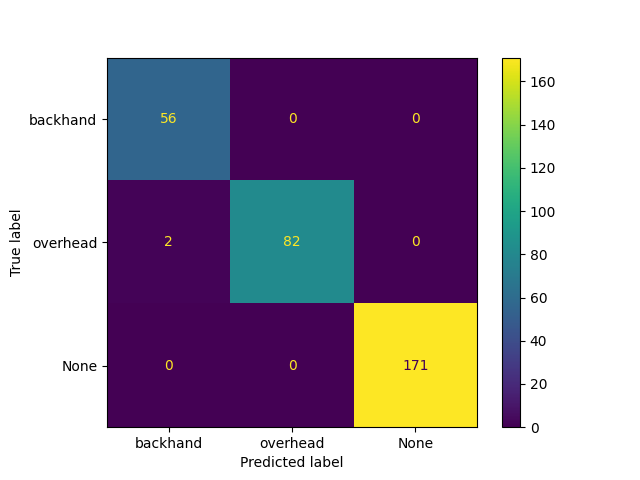
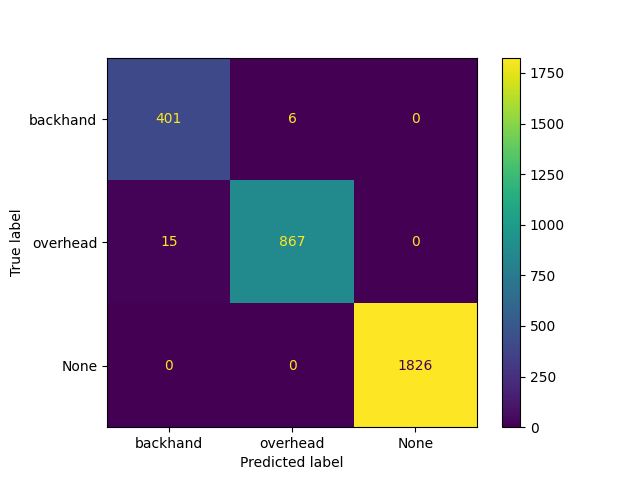
confusion matrix for all data

diff --git a/activity-classification-train.py b/activity-classification-train.py
@@ -238,10 +238,10 @@ for i, (train_index, test_index) in enumerate(cv.split(X, Y)):
     f1 +=f1_score(y_test, y_pred, average='macro')
 
     print(cm)
-    disp = ConfusionMatrixDisplay(confusion_matrix=cm, display_labels=labels.activity_labels)
-    disp.plot()
+    # disp = ConfusionMatrixDisplay(confusion_matrix=cm, display_labels=labels.activity_labels)
+    # disp.plot()
     # plt.show()
-    plt.savefig('confusion_matrix.png')
+    # plt.savefig('confusion_matrix.png')
 
     print('accuracy: ', accuracy_score(y_test, y_pred))
     print('precision: ', precision_score(y_test, y_pred, average='macro'))
@@ -260,9 +260,25 @@ print("The average f1 is {}".format(f1 / 10.0))
 # TODO: train the decision tree classifier on entire dataset
 tree.fit(X, Y)
 
+y_pred = tree.predict(X)
+cm = sklearn.metrics.confusion_matrix(y_true=Y, y_pred=y_pred)
+
+accuracy += accuracy_score(Y, y_pred)
+precision += precision_score(Y, y_pred, average='macro')
+recall +=  recall_score(Y, y_pred, average='macro')
+f1 +=f1_score(Y, y_pred, average='macro')
+
+print(cm)
+disp = ConfusionMatrixDisplay(confusion_matrix=cm, display_labels=labels.activity_labels)
+disp.plot()
+# plt.show()
+plt.savefig('confusion_matrix.png') 
+
+
+
 # TODO: Save the decision tree visualization to disk - replace 'tree' with your decision tree and run the below line
 export_graphviz(tree, out_file='tree.dot', feature_names = feature_names)
-
+# print(feature_names)
 # dot -Tpng tree.dot -o tree.png
 
 # TODO: Save the classifier to disk - replace 'tree' with your decision tree and run the below line
